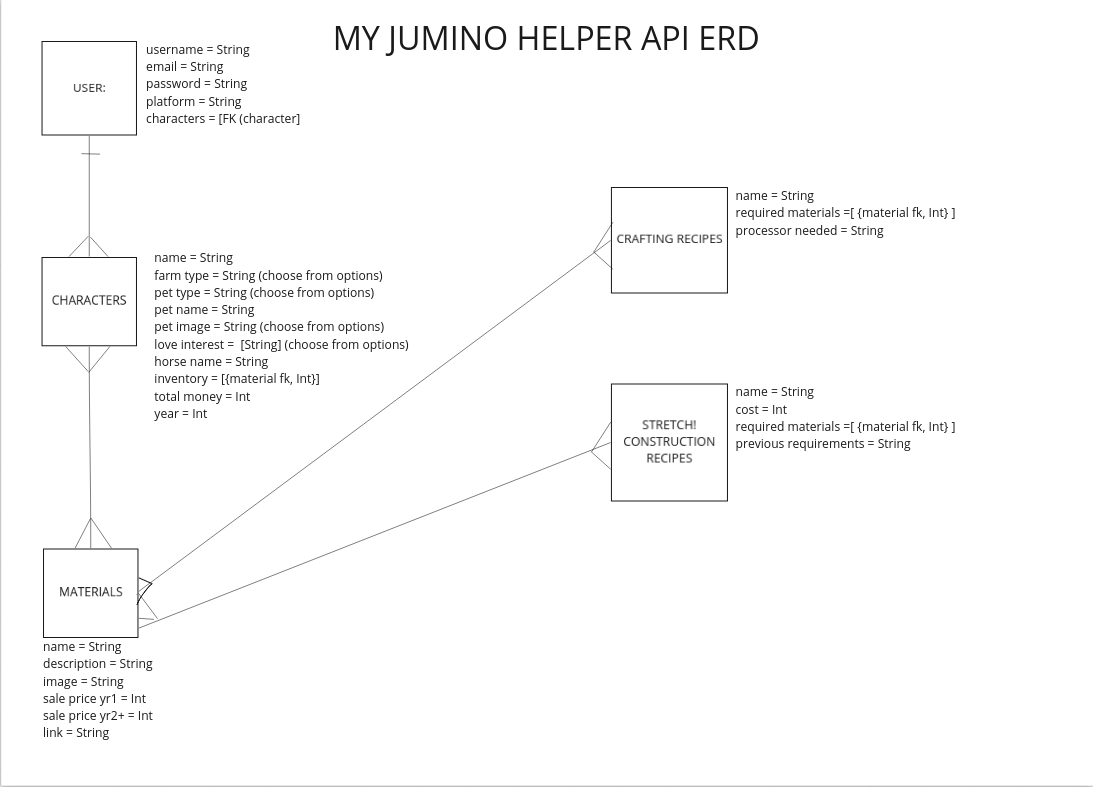
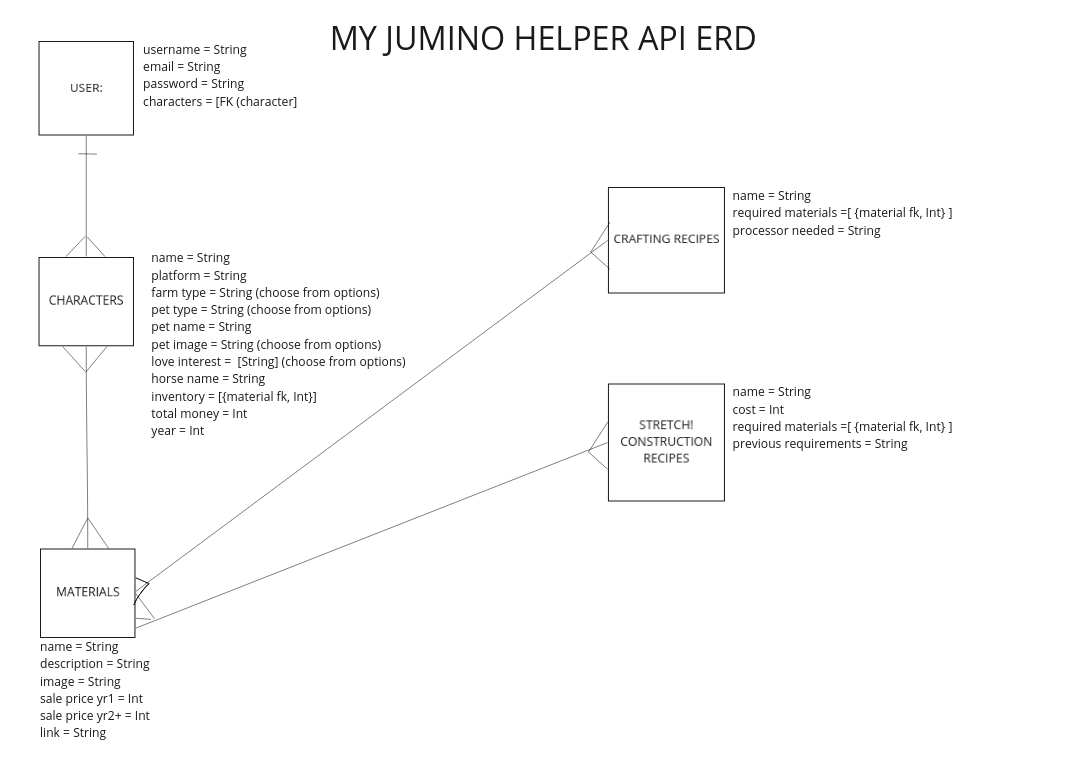
Make change to model ERD - move platform data to character

diff --git a/README.md b/README.md
@@ -17,9 +17,10 @@ Nick Esparza, Alys Cooper
 <img src='./my-junimo-helper-erd.png' max-width='800px'/>
 
 # MVP MODELS (listed in ERD as well)
-* User (for player) - name, platform
+* User (for player) - name
 * Characters (one to many from user to characters; 'saves') (fully crudable) (user can have many saves)
     - Name
+    - Platform
     - Farm Type
     - Pet Type
     - Pet Name
@@ -78,7 +79,7 @@ Nick Esparza, Alys Cooper
 | GET    | `/view-crafting-recipes`        | `crafting-recipes#view`   |
 | GET    | `/view-all-crafting-recipes`        | `crafting-recipes#view-all`   |
 
-### CONSTRUCTION BLUEPRINT route table
+### STRETCH GOAL - CONSTRUCTION BLUEPRINT route table
 
 | Verb   | URI Pattern            | Controller#Action |
 |--------|------------------------|-------------------|
